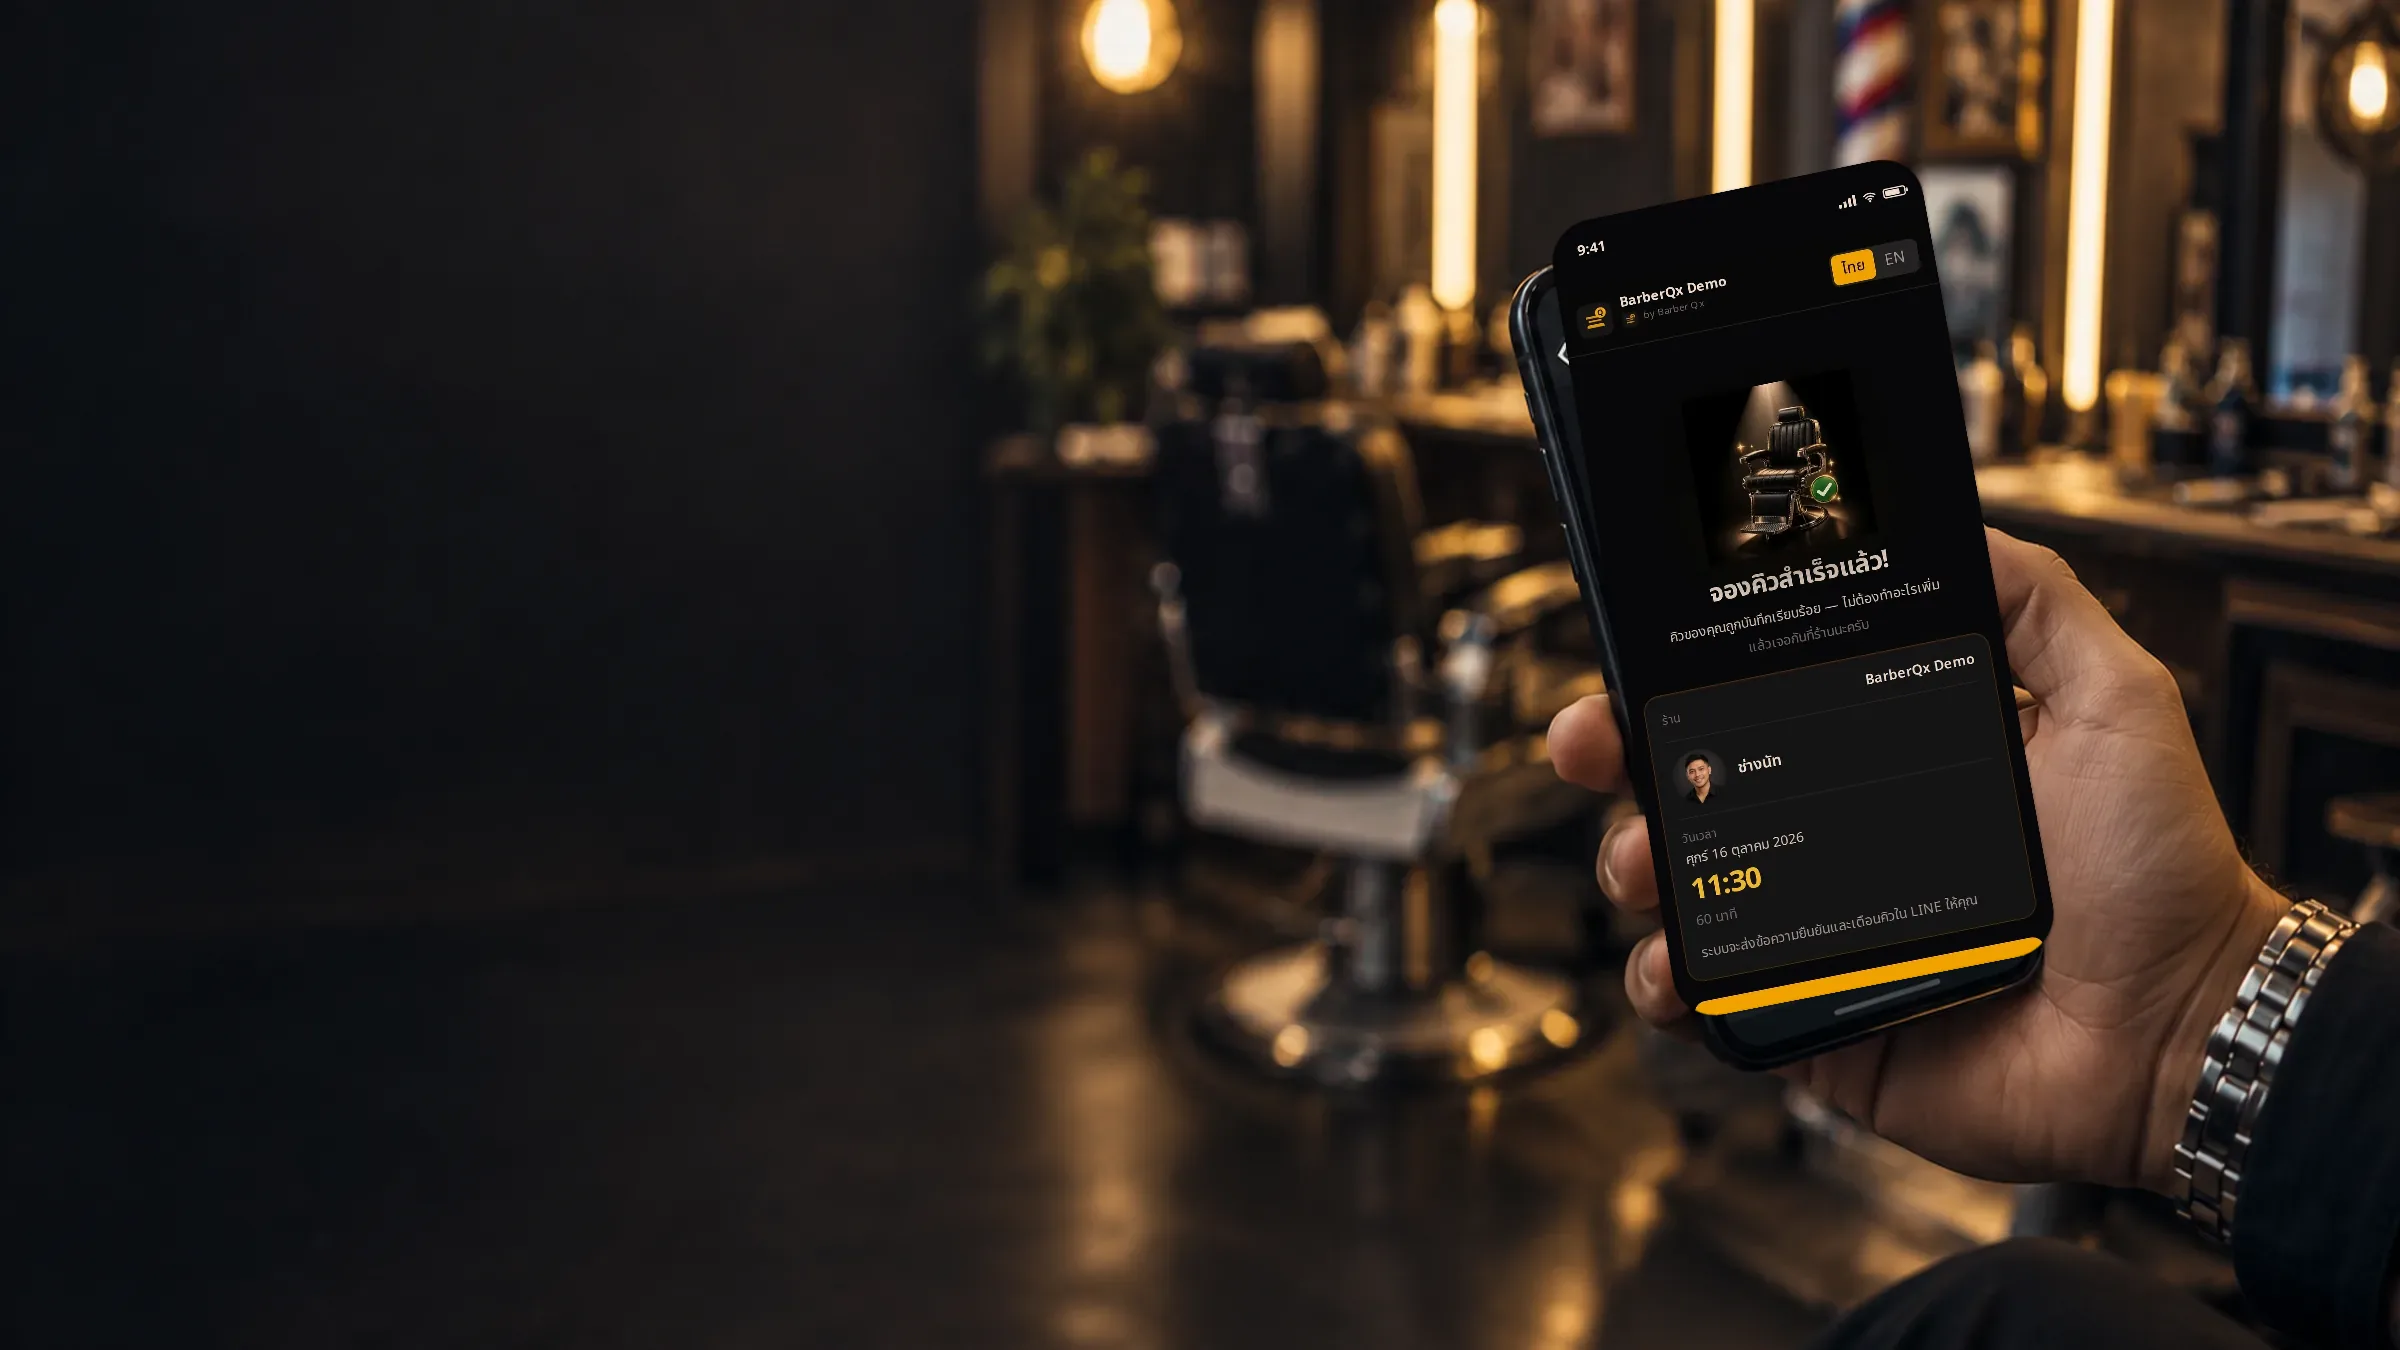
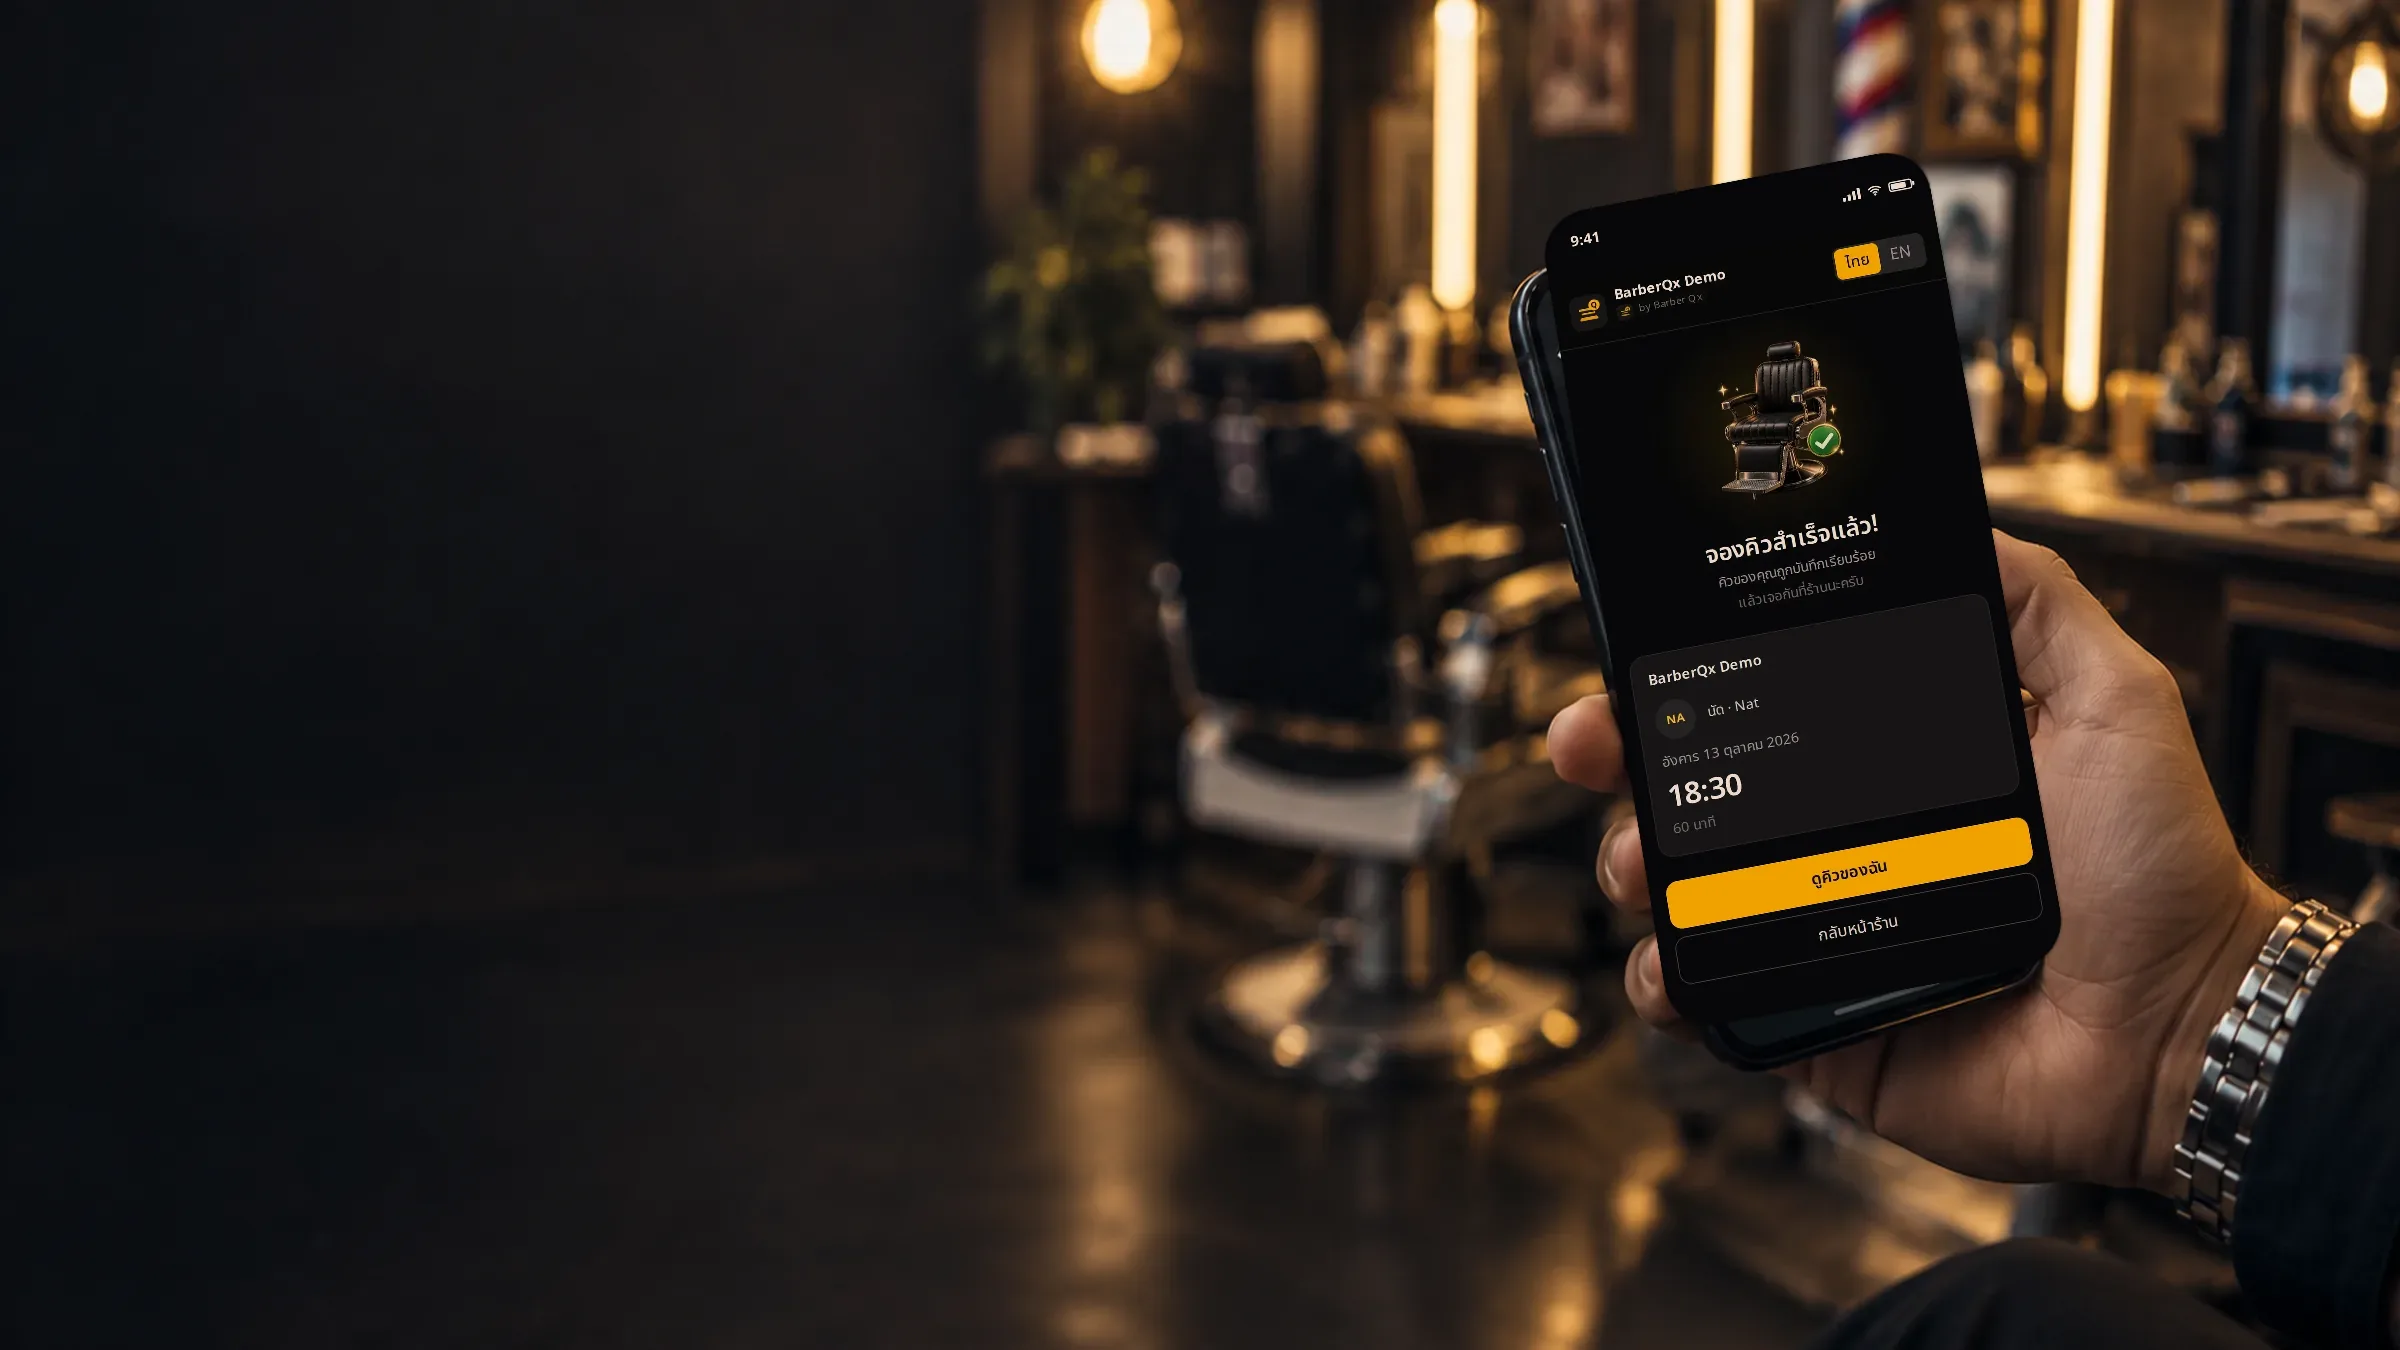
Fix hero phone bezel fit only; revert success-screen redesign
Tommy asked to do one item at a time. Restore the previous booking-success
screen content (no avatar/chair/UX redesign) and keep only the perspective
quad + corner-radius retune so the UI sits flush in the hero phone glass.

diff --git a/src/components/customer/BookingSuccess.tsx b/src/components/customer/BookingSuccess.tsx
@@ -14,14 +14,6 @@ import { formatSlotTime, SHOP_TIMEZONE } from "@/lib/services/slot-service";
 import { useShopSlug } from "@/lib/shop/shop-slug-context";
 import type { Appointment, Barber } from "@/types/booking";
 
-function barberDisplayName(raw: string, locale: "th" | "en", labelTemplate: string): string {
-  const name = raw.trim();
-  if (!name) return name;
-  if (locale === "th" && name.startsWith("ช่าง")) return name;
-  if (locale === "en" && /^barber\s+/i.test(name)) return name;
-  return labelTemplate.replace("{name}", name);
-}
-
 export function BookingSuccess({
   appointment,
   barberName,
@@ -48,84 +40,53 @@ export function BookingSuccess({
     { locale: locale === "th" ? th : enUS },
   );
   const photoUrl = barber ? customerBarberPhotoUrl(barber) : null;
-  const whoLabel = barberDisplayName(
-    barber?.name ?? barberName,
-    locale,
-    t("booking.successBarberLabel"),
-  );
-  const reminderKey = reminderDisplayMessageKey(appointment.reminder_lead_minutes);
 
   return (
-    <div className="mx-auto flex w-full max-w-[640px] flex-col gap-5 px-4 py-6">
-      {/* Peak-end success signal — stage spotlight chair (asset includes beam/sparkles/check) */}
+    <div className="mx-auto flex w-full max-w-[640px] flex-col gap-6 px-4 py-6">
       <header className="text-center">
-        <div className="booking-success-chair relative mx-auto flex h-[220px] w-full max-w-[280px] items-end justify-center sm:h-[240px]">
-          {/* Soft stage floor glow under the asset spotlight */}
+        <div className="booking-success-chair relative mx-auto w-fit">
           <div
-            className="pointer-events-none absolute bottom-[8%] left-1/2 h-12 w-[62%] -translate-x-1/2 rounded-[100%] bg-amber-300/20 blur-2xl"
+            className="pointer-events-none absolute inset-[12%] rounded-full bg-amber-400/15 blur-2xl"
             aria-hidden
           />
           <Image
-            src="/images/booking-success-chair.webp"
+            src="/images/booking-success-chair.png"
             alt=""
             width={230}
             height={230}
             priority
-            className="relative z-[1] mx-auto h-auto w-[176px] object-contain drop-shadow-[0_14px_32px_rgba(0,0,0,0.6)] sm:w-[196px] md:w-[208px]"
+            className="relative mx-auto h-auto w-[180px] object-contain sm:w-[200px] md:w-[220px]"
           />
         </div>
-
-        <h1 className="mt-3 text-[1.65rem] font-bold leading-snug tracking-tight text-zinc-50 sm:text-2xl">
-          {t("booking.successTitle")}
-        </h1>
-        <p className="mt-2 text-sm leading-relaxed text-zinc-300">{t("booking.successSubtitle")}</p>
+        <h1 className="mt-4 text-2xl font-semibold text-zinc-50">{t("booking.successTitle")}</h1>
+        <p className="mt-1 text-sm text-zinc-400">{t("booking.successSubtitle")}</p>
         <p className="mt-1 text-sm text-zinc-500">{t("booking.successSeeYou")}</p>
       </header>
 
-      {/* Who / when / where at a glance — reduces post-booking anxiety */}
-      <section className="rounded-2xl border border-amber-500/20 bg-zinc-900/90 p-4 shadow-[inset_0_1px_0_rgba(251,191,36,0.08)]">
-        {shopName ? (
-          <div className="flex items-baseline justify-between gap-3">
-            <p className="text-xs font-medium uppercase tracking-wide text-zinc-500">
-              {t("booking.successWhereLabel")}
-            </p>
-            <p className="text-right text-sm font-semibold text-zinc-100">{shopName}</p>
-          </div>
+      <section className="rounded-2xl border border-zinc-800 bg-zinc-900 p-4">
+        {shopName ? <p className="text-sm font-semibold text-zinc-100">{shopName}</p> : null}
+        <div className="mt-3 flex items-center gap-3">
+          <BarberAvatar name={barber?.name ?? barberName} imageUrl={photoUrl} size="sm" />
+          <p className="text-sm text-zinc-300">{barberName}</p>
+        </div>
+        <p className="mt-3 text-sm text-zinc-400">{dateLabel}</p>
+        <p className="mt-2 text-3xl font-semibold tracking-tight text-zinc-50">
+          {formatSlotTime(appointment.start_time)}
+        </p>
+        {barber ? (
+          <p className="mt-1 text-sm text-zinc-500">
+            {barber.slot_duration_minutes} {t("common.minutes")}
+          </p>
         ) : null}
-
-        <div className={`${shopName ? "mt-3 border-t border-zinc-800 pt-3" : ""} flex items-center gap-3`}>
-          <BarberAvatar name={barber?.name ?? barberName} imageUrl={photoUrl} size="md" />
-          <div className="min-w-0">
-            {/* Name itself carries the role prefix (e.g. ช่างนัท) — avoid "ช่าง / ช่างนัท" */}
-            <p className="truncate text-base font-semibold text-zinc-50">{whoLabel}</p>
-            {shopName ? null : (
-              <p className="text-xs text-zinc-500">{t("booking.successWhoLabel")}</p>
-            )}
-          </div>
-        </div>
-
-        <div className="mt-3 border-t border-zinc-800 pt-3">
-          <p className="text-xs font-medium uppercase tracking-wide text-zinc-500">
-            {t("booking.successWhenLabel")}
-          </p>
-          <p className="mt-1 text-sm text-zinc-300">{dateLabel}</p>
-          <p className="mt-1 text-3xl font-bold tracking-tight text-amber-300">
-            {formatSlotTime(appointment.start_time)}
-          </p>
-          {barber ? (
-            <p className="mt-1 text-sm text-zinc-500">
-              {barber.slot_duration_minutes} {t("common.minutes")}
+        {(() => {
+          const key = reminderDisplayMessageKey(appointment.reminder_lead_minutes);
+          if (!key) return null;
+          return (
+            <p className="mt-2 text-sm text-amber-200/90">
+              {t("booking.reminderChosen").replace("{lead}", t(key as MessageKey))}
             </p>
-          ) : null}
-        </div>
-
-        {reminderKey ? (
-          <p className="mt-3 rounded-xl border border-amber-500/25 bg-amber-400/5 px-3 py-2 text-sm text-amber-100">
-            {t("booking.reminderChosen").replace("{lead}", t(reminderKey as MessageKey))}
-          </p>
-        ) : (
-          <p className="mt-3 text-sm leading-relaxed text-zinc-400">{t("booking.successNextHint")}</p>
-        )}
+          );
+        })()}
       </section>
 
       {showLine ? (
@@ -147,18 +108,17 @@ export function BookingSuccess({
         </section>
       ) : null}
 
-      {/* Single clear next action */}
       <div className="flex flex-col gap-2">
         <Link
           href={shopPath("/bookings")}
-          className="flex min-h-12 items-center justify-center rounded-xl bg-amber-400 text-base font-bold text-zinc-950 focus-visible:outline focus-visible:outline-2 focus-visible:outline-offset-2 focus-visible:outline-amber-400"
+          className="flex min-h-12 items-center justify-center rounded-xl bg-amber-400 font-semibold text-zinc-950 focus-visible:outline focus-visible:outline-2 focus-visible:outline-offset-2 focus-visible:outline-amber-400"
         >
           {t("booking.viewMyBookings")}
         </Link>
         <button
           type="button"
           onClick={onBackToShop}
-          className="min-h-11 rounded-xl text-sm font-medium text-zinc-400 underline-offset-4 hover:text-zinc-200 hover:underline focus-visible:outline focus-visible:outline-2 focus-visible:outline-offset-2 focus-visible:outline-amber-400"
+          className="min-h-12 rounded-xl border border-zinc-700 text-sm font-medium text-zinc-200 focus-visible:outline focus-visible:outline-2 focus-visible:outline-offset-2 focus-visible:outline-amber-400"
         >
           {t("booking.backToShop")}
         </button>

diff --git a/src/lib/i18n/dictionary.ts b/src/lib/i18n/dictionary.ts
@@ -84,13 +84,8 @@ export const dictionary = {
     "booking.reminderLead.0": "ไม่ต้องเตือน",
     "booking.cancelTooLateDetail": "ยกเลิกได้ถึงก่อนเวลานัด {minutes} นาที · นัดนี้เลยกำหนดแล้ว กรุณาติดต่อร้าน",
     "booking.successTitle": "จองคิวสำเร็จแล้ว!",
-    "booking.successSubtitle": "คิวของคุณถูกบันทึกเรียบร้อย — ไม่ต้องทำอะไรเพิ่ม",
+    "booking.successSubtitle": "คิวของคุณถูกบันทึกเรียบร้อย",
     "booking.successSeeYou": "แล้วเจอกันที่ร้านนะครับ",
-    "booking.successBarberLabel": "ช่าง{name}",
-    "booking.successWhenLabel": "วันเวลา",
-    "booking.successWhereLabel": "ร้าน",
-    "booking.successWhoLabel": "ช่าง",
-    "booking.successNextHint": "ระบบจะส่งข้อความยืนยันและเตือนคิวใน LINE ให้คุณ",
     "booking.successReminderTitle": "เพิ่มเพื่อนใน LINE",
     "booking.successReminderBody": "หากต้องการ คุณสามารถเพิ่มเพื่อนผ่านลิงก์นี้ได้ โดยไม่กระทบสถานะการจอง",
     "booking.successAddFriend": "เพิ่มเพื่อนใน LINE",
@@ -1162,13 +1157,8 @@ export const dictionary = {
     "booking.reminderLead.0": "No reminder",
     "booking.cancelTooLateDetail": "Cancel until {minutes} minutes before start · this booking is past that cutoff — contact the shop",
     "booking.successTitle": "Booking confirmed!",
-    "booking.successSubtitle": "Your appointment is saved — nothing else to do",
+    "booking.successSubtitle": "Your appointment is saved",
     "booking.successSeeYou": "See you at the shop",
-    "booking.successBarberLabel": "Barber {name}",
-    "booking.successWhenLabel": "When",
-    "booking.successWhereLabel": "Shop",
-    "booking.successWhoLabel": "Barber",
-    "booking.successNextHint": "We’ll send confirmation and reminders in LINE",
     "booking.successReminderTitle": "Add on LINE",
     "booking.successReminderBody": "If you'd like, you can add this LINE account. This does not affect your booking status.",
     "booking.successAddFriend": "Add on LINE",

diff --git a/src/lib/booking/booking-success-ux.test.ts b/src/lib/booking/booking-success-ux.test.ts
@@ -36,15 +36,11 @@ describe("booking success source", () => {
     );
     const app = readFileSync(resolve(root, "components/customer/BookingApp.tsx"), "utf8");
     const post = readFileSync(resolve(root, "app/api/[shop]/bookings/route.ts"), "utf8");
-    assert.match(success, /\/images\/booking-success-chair\.webp/);
+    assert.match(success, /\/images\/booking-success-chair\.png/);
     assert.match(success, /object-contain/);
     assert.doesNotMatch(success, /object-cover/);
     assert.doesNotMatch(success, /✅/);
     assert.doesNotMatch(success, /CircleCheck/);
-    assert.match(success, /booking\.successBarberLabel/);
-    assert.match(success, /booking-success-chair|stage floor glow|spotlight/i);
-    assert.match(success, /BarberAvatar/);
-    assert.match(success, /successWhoLabel|successWhenLabel|successWhereLabel/);
     assert.doesNotMatch(success, /https:\/\/line\.me/);
     assert.match(success, /NEXT_PUBLIC_LINE_OA_ADD_URL/);
     assert.match(success, /shopPath\("\/bookings"\)/);

diff --git a/src/lib/data/memory-store.ts b/src/lib/data/memory-store.ts
@@ -208,9 +208,7 @@ function inviteToken(): string {
 }
 
 const barbers: Barber[] = BARBER_SEED.map((b, index) => ({
-  id: b.id,
-  name: b.name,
-  slot_duration_minutes: b.slot_duration_minutes,
+  ...b,
   off_days: [...b.off_days],
   created_at: nowIso(),
   shop_id: DEFAULT_SHOP_ID,
@@ -218,12 +216,6 @@ const barbers: Barber[] = BARBER_SEED.map((b, index) => ({
   line_id: index === 0 ? MOCK_OWNER_LINE_ID : null,
   is_bookable: true,
   is_active: true,
-  profile_image_url:
-    "profile_image_url" in b ? (b.profile_image_url as string | null) : null,
-  show_profile_in_booking:
-    "show_profile_in_booking" in b
-      ? Boolean((b as { show_profile_in_booking?: boolean }).show_profile_in_booking)
-      : false,
 }));
 
 function countFutureConfirmedAppointments(barberId: string): number {

diff --git a/src/lib/data/seed.ts b/src/lib/data/seed.ts
@@ -13,11 +13,8 @@ export const BARBER_SEED = [
   },
   {
     id: "33333333-3333-4333-8333-333333333333",
-    name: "นัท",
+    name: "Nat",
     slot_duration_minutes: 60,
     off_days: [4],
-    /** Demo portrait for marketing / memory-mode success screen. */
-    profile_image_url: "/marketing/demo/barber-nat.webp",
-    show_profile_in_booking: true,
   },
 ] as const;

diff --git a/src/types/booking.ts b/src/types/booking.ts
@@ -162,7 +162,7 @@ export interface ApiErrorBody {
 export const BARBER_THAI_NAME: Record<string, string> = {
   Saeb: "แสบ",
   Tide: "ไทด์",
-  Nat: "นัท",
+  Nat: "นัด",
 };
 
 export function barberLabel(name: string, locale: "th" | "en" = "th"): string {

diff --git a/scripts/composite-hero-phone-screens.py b/scripts/composite-hero-phone-screens.py
@@ -28,26 +28,26 @@ SCREEN = ROOT / "public/marketing/screens/queue-ticket.webp"
 # (slight oversize hides subpixel gaps; rounded mask matches glass radius).
 DESKTOP_QUAD = np.array(
     [
-        [1546, 228],
-        [1915, 152],
-        [2060, 948],
-        [1680, 1022],
+        [1538, 218],
+        [1922, 145],
+        [2068, 958],
+        [1672, 1032],
     ],
     dtype=np.float32,
 )
 
 MOBILE_QUAD = np.array(
     [
-        [400, 575],
-        [710, 558],
-        [740, 1175],
-        [426, 1192],
+        [392, 562],
+        [718, 548],
+        [748, 1185],
+        [418, 1200],
     ],
     dtype=np.float32,
 )
 
 # iPhone-like display corner radius as fraction of the shorter screen side.
-CORNER_RADIUS_FRAC = 0.112
+CORNER_RADIUS_FRAC = 0.118
 
 
 def rounded_rect_mask(h: int, w: int, radius_frac: float = CORNER_RADIUS_FRAC) -> np.ndarray:
